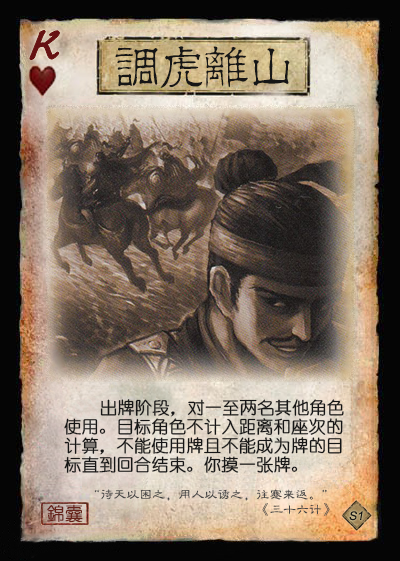
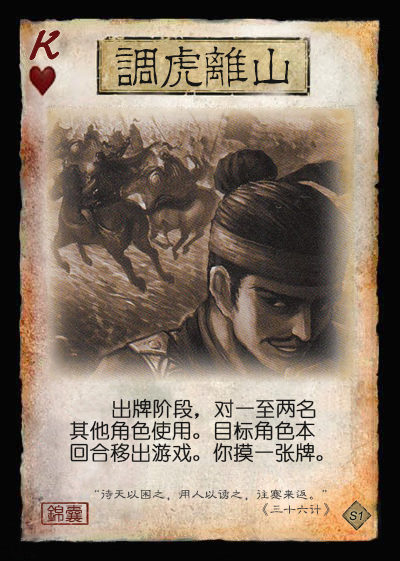
More in scene1.

Changed region(s): [[0.15, 0.697, 0.87, 0.8485]]

diff --git a/SanGuoSha/SGS-RebirthProject/scenes/scene1.md b/SanGuoSha/SGS-RebirthProject/scenes/scene1.md
@@ -22,7 +22,7 @@
         1. 黄巾和汉廷分别拥有一个专属武将池，此外双方还有一个公共武将池，列举如下（带“+”号表示拥有主公技，*斜体*表示本模式专属武将）。
             1. 黄巾专属武将池：张角+、张宝+、张梁+、张燕、黄巾雷使、*张曼成*、*马元义*、*波才*、*程远志*、*严政*
             2. 汉廷专属武将池：刘宏+、皇甫嵩+、朱儁+、卢植、张让、董卓、曹操、刘备、刘焉、*封谞*
-            3. 公共武将池：共20个（廖化、公孙瓒、马腾、韩遂、关羽、张飞、赵云、张鲁、曹洪、孙坚、甘宁、袁绍、袁术、何进、何太后、吕布、貂蝉、孔融、糜竺、诸葛瑾）。
+            3. 公共武将池：共20个（廖化、公孙瓒、马腾、韩遂、关羽、张飞、赵云、张鲁、曹洪、孙坚、甘宁、祖茂、袁绍、何进、何太后、吕布、貂蝉、孔融、糜竺、诸葛瑾）。
             4. *说明*：公共武将池中包含后来参与讨伐黄巾的武将，这里可视为IF世界线：这些人才对汉室失望，被黄巾招募。
         2. 选择武将流程
             1. 双方分别从各自的专属武将池中随机选出6个武将，从其中选择3个武将，扣置在己方备战区中。
@@ -166,7 +166,7 @@
 
     > 微调：增加了弃置判定区牌的选项。
 7. ![调虎离山](../assets/images/scenes/scene1/S1.3-HK-调虎离山.png) 【调虎离山】：锦囊，普通  
-    出牌阶段，对一至两名其他角色使用。目标角色不计入距离和座次的计算，不能使用牌且不能成为牌的目标直到回合结束。你摸一张牌。
+    出牌阶段，对一至两名其他角色使用。目标角色本回合移出游戏。你摸一张牌。
 
     > 引文：“待天以困之，用人以诱之，往蹇来返。” ——《三十六计》  
     > 沿用国战版【调虎离山】效果，较为适用于明确划分阵营的对抗和阵法效果。
@@ -245,7 +245,6 @@
     2. 【献城】：**锁定技**，当一名其他角色被击退时，你选择一项：将你和该角色装备区中的所有牌交给体力值最多的一名角色；或失去1点体力。
     
     > 【献城】技能在友方角色被击退时有通敌属性。
-    > TODO：重做【困守】，与曹洪区分。
 
 ### 汉廷专属武将
 
@@ -255,9 +254,10 @@
     3. 【天威】：**主帅技**，准备阶段，你可以弃置一张牌，弃置一名友方角色判定区内的一张牌。
 2. ![皇甫嵩](../assets/images/scenes/scene1/S1.HAN002-皇甫嵩.jpg) S1.HAN002 皇甫嵩 男 汉 4体力 称号：志定雪霜
     1. 【奋钺】：出牌阶段限一次，你可以与一名角色拼点，若你赢，根据你拼点的牌的点数依次执行以下效果：小于等于5：获得其一张牌；小于等于9：摸一张牌；小于等于K：视为对其使用一张火【杀】。若你没赢，你本阶段不能使用【杀】。
-    2. 【舍身】：**主帅技**，你首次被击退时，可令一名友方角色回复1点体力并摸三张牌。
+    2. 【舍身】：**主帅技**，你于本局对战中首次被击退时，可令一名友方角色回复1点体力并摸三张牌。
 
     > 基于身份皇甫嵩稍作调整，增加了【杀】的属性，与场景契合。
+    > TODO：修改武将牌描述
 3. ![朱儁](../assets/images/scenes/scene1/S1.HAN003-朱儁.jpg) S1.HAN003 朱儁 男 汉 4体力 称号：征无遗虑
     1. 【严整】：出牌阶段限一次，你可以选择一项：将一张黑色基本牌当【一鼓作气】使用；或将一张红色基本牌当【鸣金收兵】使用。
     2. 【攻坚】：**主帅技**，当一名友方角色使用【杀】结算后，若此【杀】未造成伤害，你可以将你装备区或判定区内的一张红色牌当火【杀】对同一目标角色使用。
@@ -274,10 +274,8 @@
 7. ![曹操](../assets/images/scenes/scene1/S1.HAN007-曹操.jpg) S1.HAN007 曹操 男 汉 4体力 称号：崭露头角
     1. 【令法】：**锁定技**，游戏开始时，你将一张牌置于你的武将牌上，称为“令”；出牌阶段限一次，你可以用一张牌替换一张“令”；一名角色使用与“令”同名的牌时，需弃置一张手牌，否则此牌无效。一名友方角色的回合结束时，若其本回合未使用过与“令”同名的牌，则民愤-1，否则民愤+1。
 8. ![刘焉](../assets/images/scenes/scene1/S1.HAN008-刘焉.jpg) S1.HAN008 刘焉 男 汉 3体力 称号：裂土之宗
-    1. 【图射】：
-    2. 【立牧】：
-
-    > TODO：【立牧】与【调虎离山】产生联系，将某些角色移除游戏，表示割据一方。
+    1. 【图射】：若你的手牌数为全场最多，你使用【杀】或普通锦囊牌可额外指定一个目标。
+    2. 【立牧】：出牌阶段限一次，你可以翻面并摸一张牌，若如此做，跳过本回合的弃牌阶段；当民愤增加时，若你的武将牌背面朝上，你可以选择一项：摸一张牌，或弃置一张牌令此次民愤值变化量-1。
 9. ![刘备](../assets/images/scenes/scene1/S1.HAN009-刘备.jpg) S1.HAN009 刘备 男 汉 4体力 称号：汉嗣仁裔
     1. 【仁德】：出牌阶段，你可以将任意张手牌交给其他角色，然后若你于此阶段内给出第二张“仁德”牌时，你选择一项：回复1点体力，或令民愤-2。
 10. ![封谞](../assets/images/scenes/scene1/S1.HAN010-封谞.jpg) S1.HAN010 封谞 男 汉 3体力 称号：TODO
@@ -326,10 +324,16 @@
 11. ![甘宁](../assets/images/scenes/scene1/S1.QUN011-甘宁.jpg) S1.QUN011 甘宁 男 群 4体力 称号：锦帆游侠
     1. 【奇袭】：你可以将一张黑色牌当【过河拆桥】使用。
     2. 【奋威】：**限定技**，当锦囊牌指定至少两个目标后，你可令此牌对任意名目标角色无效。
-12. ![袁绍](../assets/images/scenes/scene1/S1.QUN012-袁绍.jpg) S1.QUN012 袁绍 男 群 4体力 称号：高贵的名门
-13. ![袁术](../assets/images/scenes/scene1/S1.QUN013-袁术.jpg) S1.QUN013 袁术 男 群 4体力 称号：野心渐增
+12. ![祖茂](../assets/images/scenes/scene1/S1.QUN012-祖茂.jpg) S1.QUN012 祖茂 男 群 4体力 称号：碧血染赤帻
+    1. 【引兵】：一名角色的准备阶段，你可以将两张花色相同的牌当【调虎离山】对一名非当前回合角色使用（该角色和当前回合角色可将一张同花色的牌当【无懈可击】响应此牌）。若此【调虎离山】被抵消，该技能本轮失效。
+    2. 【绝地】：当你于回合外失去手牌后，若你没有手牌，你可以令一名其他友方角色回复1点体力。
+13. ![袁绍](../assets/images/scenes/scene1/S1.QUN013-袁绍.jpg) S1.QUN013 袁绍 男 群 4体力 称号：高贵的名门
 14. ![何进](../assets/images/scenes/scene1/S1.QUN014-何进.jpg) S1.QUN014 何进 男 群 4体力 称号：色厉内荏
+    1. 【谋诛】：出牌阶段限一次，你可令一名其他角色交给你一张手牌，然后若其手牌比你少，则其选择一项：视为对你使用一张【杀】；或视为对你使用一张【决斗】。
+    2. 【延祸】：你被击退时，你可以依次弃置每名敌方角色的各一张牌。
 15. ![何太后](../assets/images/scenes/scene1/S1.QUN015-何太后.jpg) S1.QUN015 何太后 女 群 3体力 称号：弄权之蛇蝎
+    1. 【鸩毒】：其他角色的出牌阶段开始时，你可以弃置一张手牌，令该角色视为使用一张【酒】，然后你对其造成1点伤害。
+    2. 【戚乱】：一名角色回合结束时，若本回合有角色被击退，你摸一张牌（若本回合有角色被你击退，改为摸三张牌）。
 16. ![吕布](../assets/images/scenes/scene1/S1.QUN016-吕布.jpg) S1.QUN016 吕布 男 群 4体力 称号：武的化身
     1. 【无双】：**锁定技**，你使用的【杀】需两张【闪】才能抵消；与你进行【决斗】的角色每次需打出两张【杀】。
     2. 【据关】：**限定技**，出牌阶段，你可以选择至多三名其他角色，你视为对这些角色依次使用一张【决斗】。
